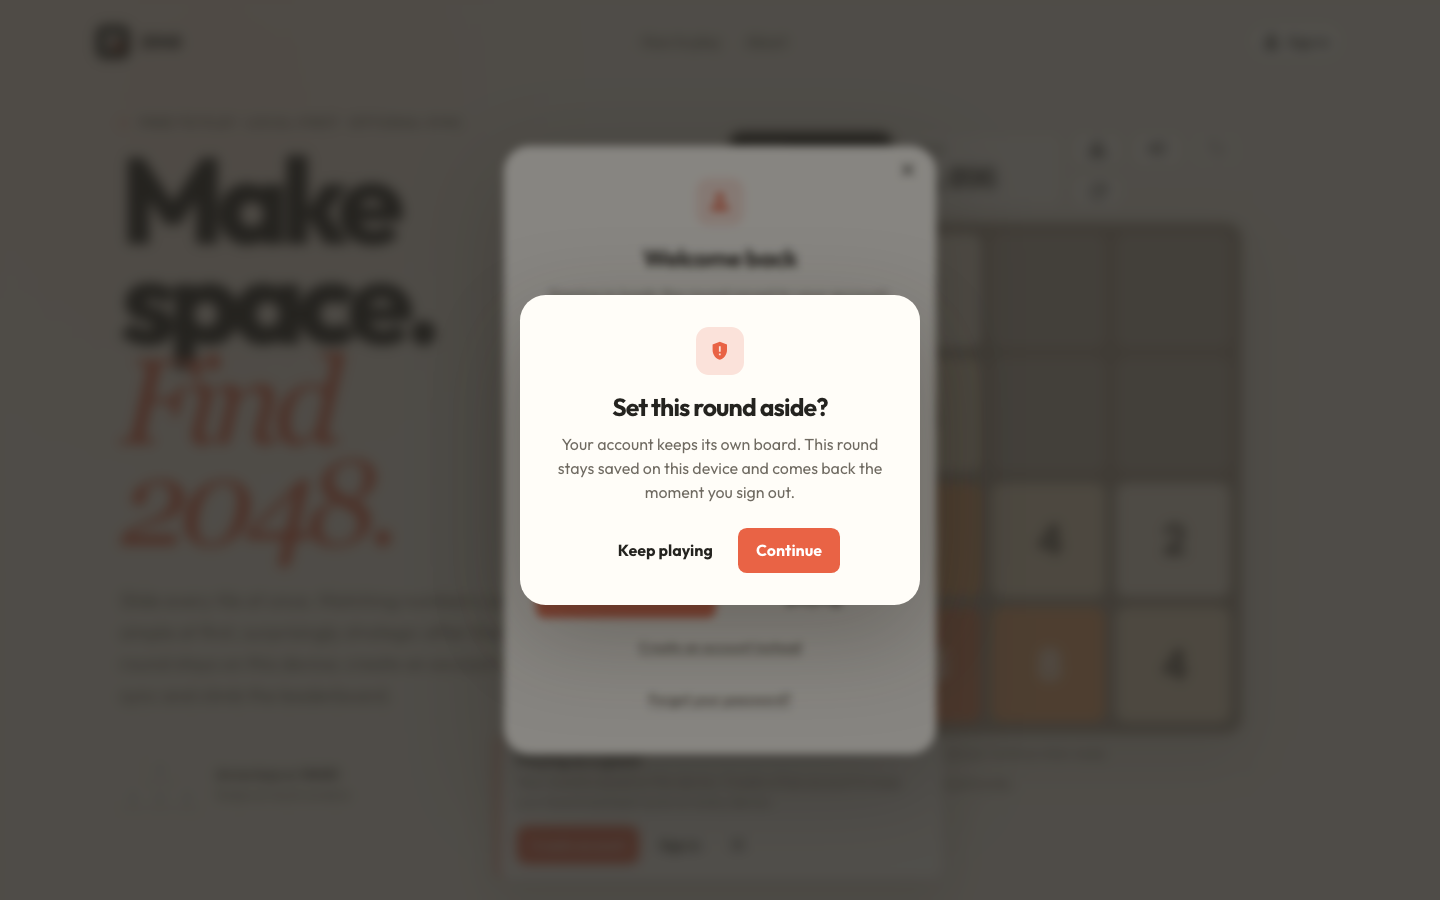
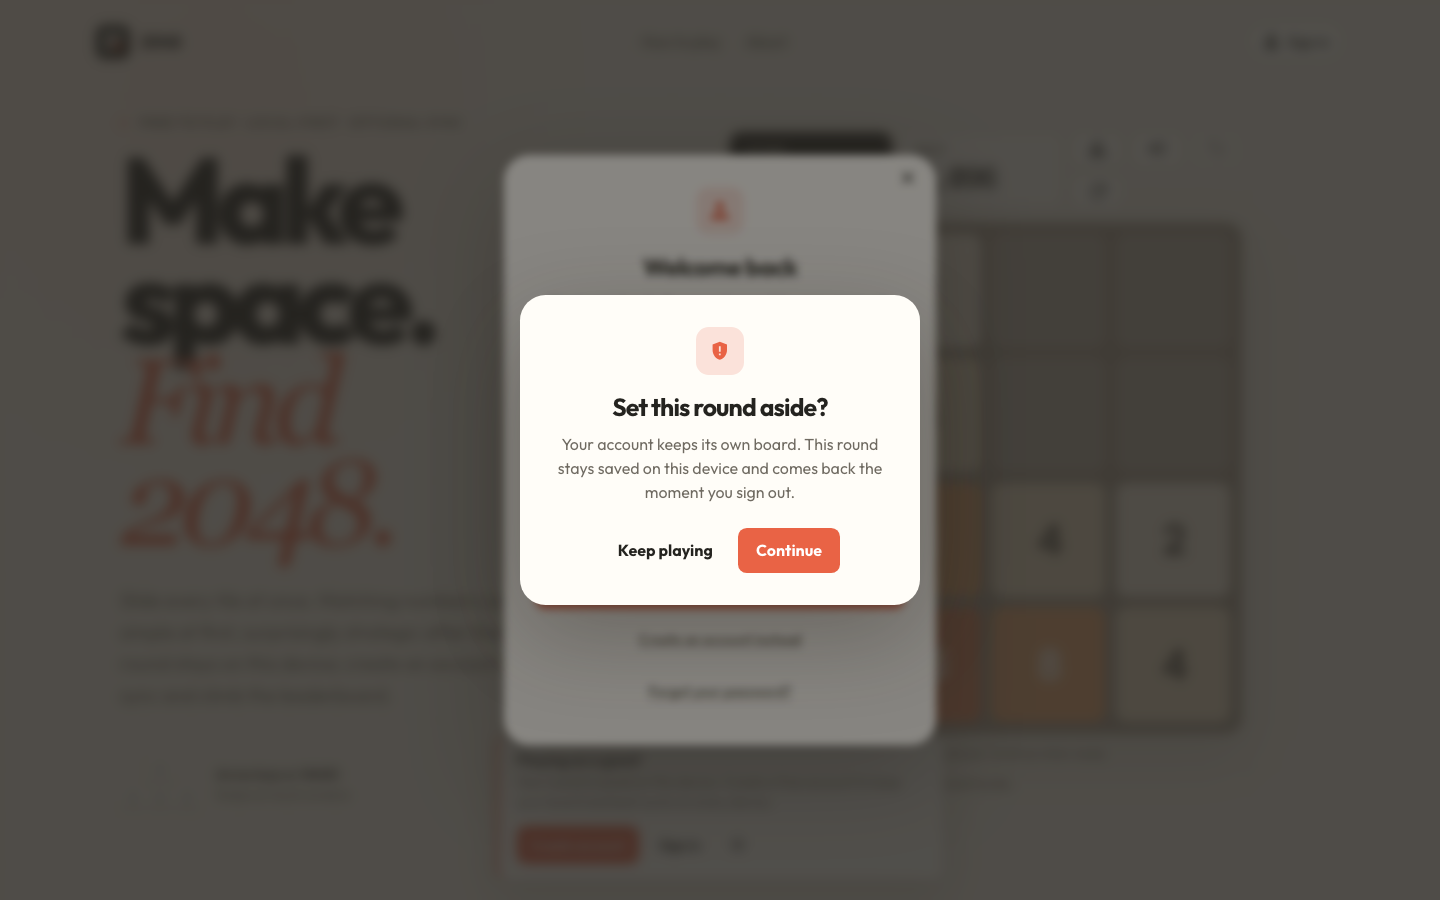
Drop the redundant "Not now" button from the web auth dialog
The close icon in the corner already dismisses the form, so the text button
under the submit said the same thing a second time and pushed the two links
below it further down.

Keyboard-isolation and password-concealment tests now drive the close icon,
which is the control that remains.

iOS and Android keep theirs: neither sheet carries a close icon, so their
button is the only explicit way out besides a swipe.

Claude-Session: https://claude.ai/code/session_01MGTZSke7u55vhHdJkYjxwL

diff --git a/index.html b/index.html
@@ -163,7 +163,7 @@
             <div class="cloud-field" id="authIdentifierField" hidden><label for="authIdentifier">Username or email</label><input id="authIdentifier" name="identifier" type="text" autocomplete="username" spellcheck="false"></div>
             <div class="cloud-field"><label for="authPassword">Password</label><div class="cloud-field__control"><input id="authPassword" name="password" type="password" autocomplete="new-password" minlength="8"><button class="reveal-button" type="button" data-reveal="authPassword" data-reveal-label="password" aria-controls="authPassword" aria-pressed="false" aria-label="Show password" title="Show password"><svg class="solid-icon solid-icon--reveal-on" aria-hidden="true" viewBox="0 0 24 24"><path d="M12 5c-5 0-9.27 3.11-11 7.5C2.73 16.89 7 20 12 20s9.27-3.11 11-7.5C21.27 8.11 17 5 12 5Zm0 12.5a5 5 0 1 1 0-10 5 5 0 0 1 0 10Zm0-8a3 3 0 1 0 0 6 3 3 0 0 0 0-6Z"/></svg><svg class="solid-icon solid-icon--reveal-off" aria-hidden="true" viewBox="0 0 24 24"><path d="M12 7a5 5 0 0 1 5 5c0 .64-.13 1.25-.36 1.81l2.93 2.92A11.8 11.8 0 0 0 23 12.5C21.27 8.11 17 5 12 5c-1.27 0-2.49.2-3.64.57l2.17 2.16c.46-.15.96-.23 1.47-.23ZM3.7 4.3 2.29 5.71l2.47 2.47A11.77 11.77 0 0 0 1 12.5C2.73 16.89 7 20 12 20c1.52 0 2.98-.29 4.32-.82l3.26 3.26 1.41-1.41L3.7 4.3ZM12 17.5a5 5 0 0 1-4.6-6.96l1.63 1.63A3 3 0 0 0 12 15.5c.28 0 .55-.04.8-.11l1.63 1.63c-.7.31-1.5.48-2.43.48Z"/></svg></button></div><span class="cloud-field__hint">At least 8 characters, including one letter and one number.</span></div>
             <div class="cloud-field" id="authConfirmField"><label for="authConfirm">Confirm password</label><div class="cloud-field__control"><input id="authConfirm" name="passwordConfirm" type="password" autocomplete="new-password" minlength="8"><button class="reveal-button" type="button" data-reveal="authConfirm" data-reveal-label="confirmation password" aria-controls="authConfirm" aria-pressed="false" aria-label="Show confirmation password" title="Show confirmation password"><svg class="solid-icon solid-icon--reveal-on" aria-hidden="true" viewBox="0 0 24 24"><path d="M12 5c-5 0-9.27 3.11-11 7.5C2.73 16.89 7 20 12 20s9.27-3.11 11-7.5C21.27 8.11 17 5 12 5Zm0 12.5a5 5 0 1 1 0-10 5 5 0 0 1 0 10Zm0-8a3 3 0 1 0 0 6 3 3 0 0 0 0-6Z"/></svg><svg class="solid-icon solid-icon--reveal-off" aria-hidden="true" viewBox="0 0 24 24"><path d="M12 7a5 5 0 0 1 5 5c0 .64-.13 1.25-.36 1.81l2.93 2.92A11.8 11.8 0 0 0 23 12.5C21.27 8.11 17 5 12 5c-1.27 0-2.49.2-3.64.57l2.17 2.16c.46-.15.96-.23 1.47-.23ZM3.7 4.3 2.29 5.71l2.47 2.47A11.77 11.77 0 0 0 1 12.5C2.73 16.89 7 20 12 20c1.52 0 2.98-.29 4.32-.82l3.26 3.26 1.41-1.41L3.7 4.3ZM12 17.5a5 5 0 0 1-4.6-6.96l1.63 1.63A3 3 0 0 0 12 15.5c.28 0 .55-.04.8-.11l1.63 1.63c-.7.31-1.5.48-2.43.48Z"/></svg></button></div></div>
-            <div class="dialog-actions dialog-actions--stack"><button class="button button--primary" id="authSubmit" type="submit">Create account</button><button class="button button--text" id="authCancel" type="button">Not now — keep playing</button></div>
+            <div class="dialog-actions dialog-actions--stack"><button class="button button--primary" id="authSubmit" type="submit">Create account</button></div>
             <button class="button button--link" id="authSwitch" type="button">I already have an account</button>
             <button class="button button--link" id="authForgot" type="button">Forgot your password?</button>
         </form>

diff --git a/tests/web/account-ui.test.js b/tests/web/account-ui.test.js
@@ -19,7 +19,7 @@ const IDS = [
     "authDialog", "authForm", "authTitle", "authIntro", "authUsernameField", "authUsername",
     "authEmailField", "authEmail", "authIdentifierField", "authIdentifier", "authPassword",
     "authConfirmField", "authConfirm",
-    "authSubmit", "authSwitch", "authForgot", "authCancel", "authDismiss", "authError",
+    "authSubmit", "authSwitch", "authForgot", "authDismiss", "authError",
     "resetDialog", "resetForm", "resetUsername", "resetEmail", "resetPassword",
     "resetConfirm", "resetSubmit", "resetCancel", "resetDismiss", "resetError",
     "profileSwitchDialog", "profileSwitchTitle", "profileSwitchBody",
@@ -494,18 +494,9 @@ test("restoring a stored session shows a syncing status", async () => {
     assert.equal(app.elements.cloudStatus.classList.contains("is-busy"), false);
 });
 
-test("cancelling closes the dialog and changes nothing", async () => {
-    const app = mount();
-    await app.ui.start();
-
-    app.elements.accountButton.dispatch("click");
-    app.elements.authCancel.dispatch("click");
-
-    assert.equal(app.elements.authDialog.open, false);
-    assert.equal(app.cloud.isSignedIn(), false);
-});
-
 test("the dismiss control and backdrop click both close the auth dialog", async () => {
+    // The close icon is the only dismiss control the form carries; a second
+    // "not now" button underneath the submit said the same thing twice.
     const app = mount();
     await app.ui.start();
 
@@ -513,6 +504,7 @@ test("the dismiss control and backdrop click both close the auth dialog", async 
     assert.equal(app.elements.authDialog.open, true);
     app.elements.authDismiss.dispatch("click");
     assert.equal(app.elements.authDialog.open, false);
+    assert.equal(app.cloud.isSignedIn(), false, "dismissing changes nothing");
 
     app.elements.accountButton.dispatch("click");
     app.elements.authDialog.dispatch("click", { target: app.elements.authDialog });
@@ -1292,7 +1284,7 @@ test("closing a form hides every password again", async () => {
     app.reveal.authPassword.dispatch("click");
     app.reveal.authConfirm.dispatch("click");
 
-    app.elements.authCancel.dispatch("click");
+    app.elements.authDismiss.dispatch("click");
 
     assert.equal(app.elements.authPassword.type, "password");
     assert.equal(app.elements.authConfirm.type, "password");

diff --git a/tests/web/browser.test.js b/tests/web/browser.test.js
@@ -214,12 +214,12 @@ test("auth dialog owns WASD and arrows so the board stays still", async () => {
     assert.deepEqual((await state(page)).board.flat(), seeded.board, "keys in the auth form must not move tiles");
 
     // Focus a dialog control that is not an input — still must not drive the board.
-    await page.locator("#authCancel").focus();
+    await page.locator("#authSwitch").focus();
     await page.keyboard.press("d");
     await page.keyboard.press("ArrowRight");
     assert.deepEqual((await state(page)).board.flat(), seeded.board, "keys while the auth dialog is open must not move tiles");
 
-    await page.locator("#authCancel").click();
+    await page.locator("#authDismiss").click();
     assert.equal(await page.locator("#authDialog").evaluate(dialog => dialog.open), false);
     await page.keyboard.press("a");
     assert.equal((await state(page)).board.flat().includes(4), true, "closing auth restores keyboard moves");

diff --git a/Web-Version/account.js b/Web-Version/account.js
@@ -91,7 +91,6 @@
             authSubmit: byId("authSubmit"),
             authSwitch: byId("authSwitch"),
             authForgot: byId("authForgot"),
-            authCancel: byId("authCancel"),
             authDismiss: byId("authDismiss"),
             authError: byId("authError"),
 
@@ -852,7 +851,6 @@
             if (event?.preventDefault) event.preventDefault();
             setMode(mode === "register" ? "login" : "register");
         });
-        listen(elements.authCancel, "click", () => closeAuth());
         listen(elements.authDismiss, "click", () => closeAuth());
         // Backdrop click and Escape both leave the board alone.
         listen(elements.authDialog, "click", event => {
